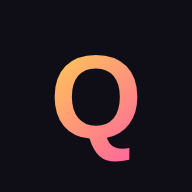
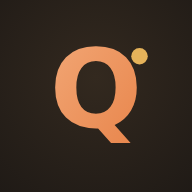
Appli installable : manifeste complet, nouvelles icônes, invitation à installer (Android/iPhone) (#77)
Claude-Session: https://claude.ai/code/session_01C1Np29HotHXGKtMTG5XxXh

diff --git a/src/components/InstallPrompt.js b/src/components/InstallPrompt.js
@@ -1,0 +1,45 @@
+import React, { useEffect, useState } from 'react';
+
+const KEY = 'quizly-install-dismissed';
+const isStandalone = () => (window.matchMedia && window.matchMedia('(display-mode: standalone)').matches) || window.navigator.standalone === true;
+const isIOS = () => /iphone|ipad|ipod/i.test(navigator.userAgent) && !window.MSStream;
+
+// Invite à installer l'appli : bouton direct (Android / ordinateur) ou mode d'emploi (iPhone)
+export default function InstallPrompt() {
+  const [evt, setEvt] = useState(null);
+  const [hidden, setHidden] = useState(() => { try { return !!localStorage.getItem(KEY); } catch (e) { return false; } });
+  const [help, setHelp] = useState(false);
+
+  useEffect(() => {
+    const on = e => { e.preventDefault(); setEvt(e); };
+    const done = () => { setEvt(null); setHidden(true); };
+    window.addEventListener('beforeinstallprompt', on);
+    window.addEventListener('appinstalled', done);
+    return () => { window.removeEventListener('beforeinstallprompt', on); window.removeEventListener('appinstalled', done); };
+  }, []);
+
+  if (hidden || isStandalone()) return null;
+  const ios = isIOS();
+  if (!evt && !ios) return null;
+
+  const dismiss = () => { try { localStorage.setItem(KEY, '1'); } catch (e) { /* ignoré */ } setHidden(true); };
+  const install = async () => {
+    if (evt) { evt.prompt(); try { await evt.userChoice; } catch (e) { /* ignoré */ } setEvt(null); }
+    else setHelp(h => !h);
+  };
+
+  return (
+    <div data-testid="install-prompt" style={{ background: 'linear-gradient(135deg, rgba(232,132,74,.28), rgba(230,179,90,.12))', border: '1px solid rgba(232,132,74,.55)', borderRadius: 18, padding: '12px 14px', marginBottom: 14 }}>
+      <div style={{ display: 'flex', alignItems: 'center', gap: 12 }}>
+        <img src="/icon-192.png" alt="" width="44" height="44" style={{ borderRadius: 12 }} />
+        <div style={{ flex: 1, minWidth: 0 }}>
+          <div style={{ fontFamily: "'Bricolage Grotesque', sans-serif", fontWeight: 800, fontSize: 15 }}>Installe Quizly</div>
+          <div style={{ fontSize: 12, color: 'var(--muted)' }}>Plein écran, accès direct depuis ton écran d'accueil.</div>
+        </div>
+        <button className="btn btn-primary" data-testid="install-btn" style={{ padding: '8px 14px', fontSize: 13 }} onClick={install}>{evt ? 'Installer' : 'Comment ?'}</button>
+        <button aria-label="Fermer" onClick={dismiss} style={{ background: 'none', border: 'none', color: 'var(--muted)', fontSize: 18, cursor: 'pointer' }}>✕</button>
+      </div>
+      {help && <div style={{ fontSize: 13, marginTop: 10, lineHeight: 1.6 }}>Dans Safari : touche <strong>Partager</strong> (le carré avec la flèche) puis <strong>« Sur l'écran d'accueil »</strong>.</div>}
+    </div>
+  );
+}

diff --git a/e2e/tests/11-pwa.js b/e2e/tests/11-pwa.js
@@ -1,0 +1,23 @@
+// Installation de l'appli
+const tests = [];
+const t = (n, f) => tests.push([n, f]);
+const seed = b => b();
+t('manifeste valide et icônes présentes', async a => {
+  await a.go('/');
+  const m = await a.page.evaluate(async () => (await fetch('/manifest.json')).json());
+  a.assert.strictEqual(m.display, 'standalone'); a.assert.ok(m.shortcuts.length >= 3);
+  for (const i of m.icons) { const ok = await a.page.evaluate(async src => (await fetch(src)).ok, i.src); a.assert.ok(ok, i.src); }
+});
+t('pas d\'invitation sans événement d\'installation (bureau)', async a => {
+  await a.go('/'); a.assert.strictEqual(await a.page.locator('[data-testid="install-prompt"]').count(), 0);
+});
+t('invitation affichée quand le navigateur propose l\'installation, puis masquée', async a => {
+  await a.go('/');
+  await a.page.evaluate(() => { const e = new Event('beforeinstallprompt'); e.prompt = () => { window.__prompted = true; }; e.userChoice = Promise.resolve({ outcome: 'accepted' }); window.dispatchEvent(e); });
+  await a.page.waitForTimeout(300);
+  a.assert.strictEqual(await a.page.locator('[data-testid="install-prompt"]').count(), 1);
+  await a.page.locator('[data-testid="install-btn"]').click(); await a.page.waitForTimeout(300);
+  a.assert.ok(await a.page.evaluate(() => window.__prompted === true));
+  a.assert.strictEqual(await a.page.locator('[data-testid="install-prompt"]').count(), 0);
+});
+module.exports = { tests, seed };

diff --git a/src/pages/Home.js b/src/pages/Home.js
@@ -9,6 +9,7 @@ import { dueReviewIds } from '../utils/league';
 import DailyPanel from '../components/DailyPanel';
 import Onboarding from '../components/Onboarding';
 import { rankFor } from '../utils/rank';
+import InstallPrompt from '../components/InstallPrompt';
 import { useChampions } from '../hooks/useChampions';
 import { weeklyBoss, weeklyCat, weeklyEnds, WEEKLY_MULT, WEEKLY_BOSS_GEMS } from '../utils/weekly';
 import { BOSSES } from '../data/bosses';
@@ -111,6 +112,7 @@ export default function Home() {
 
   return (
     <div className="page">
+      <InstallPrompt />
       <div className="home-top">
       <div className="home-hero hero-grid" style={{ background: 'linear-gradient(135deg, var(--s1), #33291F)', border: '1px solid var(--s2)', borderRadius: 24, padding: 20, marginBottom: 14 }}>
         <div className="hero-main">

diff --git a/public/index.html b/public/index.html
@@ -2,9 +2,13 @@
 <html lang="fr">
 <head>
   <meta charset="utf-8" />
-  <meta name="viewport" content="width=device-width, initial-scale=1" />
+  <meta name="viewport" content="width=device-width, initial-scale=1, viewport-fit=cover" />
   <meta name="theme-color" content="#1F1A16" />
   <meta name="description" content="Quizly — Quiz thématiques avec système XP et niveaux" />
+  <meta name="apple-mobile-web-app-capable" content="yes" />
+  <meta name="mobile-web-app-capable" content="yes" />
+  <meta name="apple-mobile-web-app-title" content="Quizly" />
+  <meta name="apple-mobile-web-app-status-bar-style" content="black-translucent" />
   <title>Quizly</title>
   <link rel="apple-touch-icon" href="%PUBLIC_URL%/icon-192.png" />
   <link rel="manifest" href="%PUBLIC_URL%/manifest.json" />
